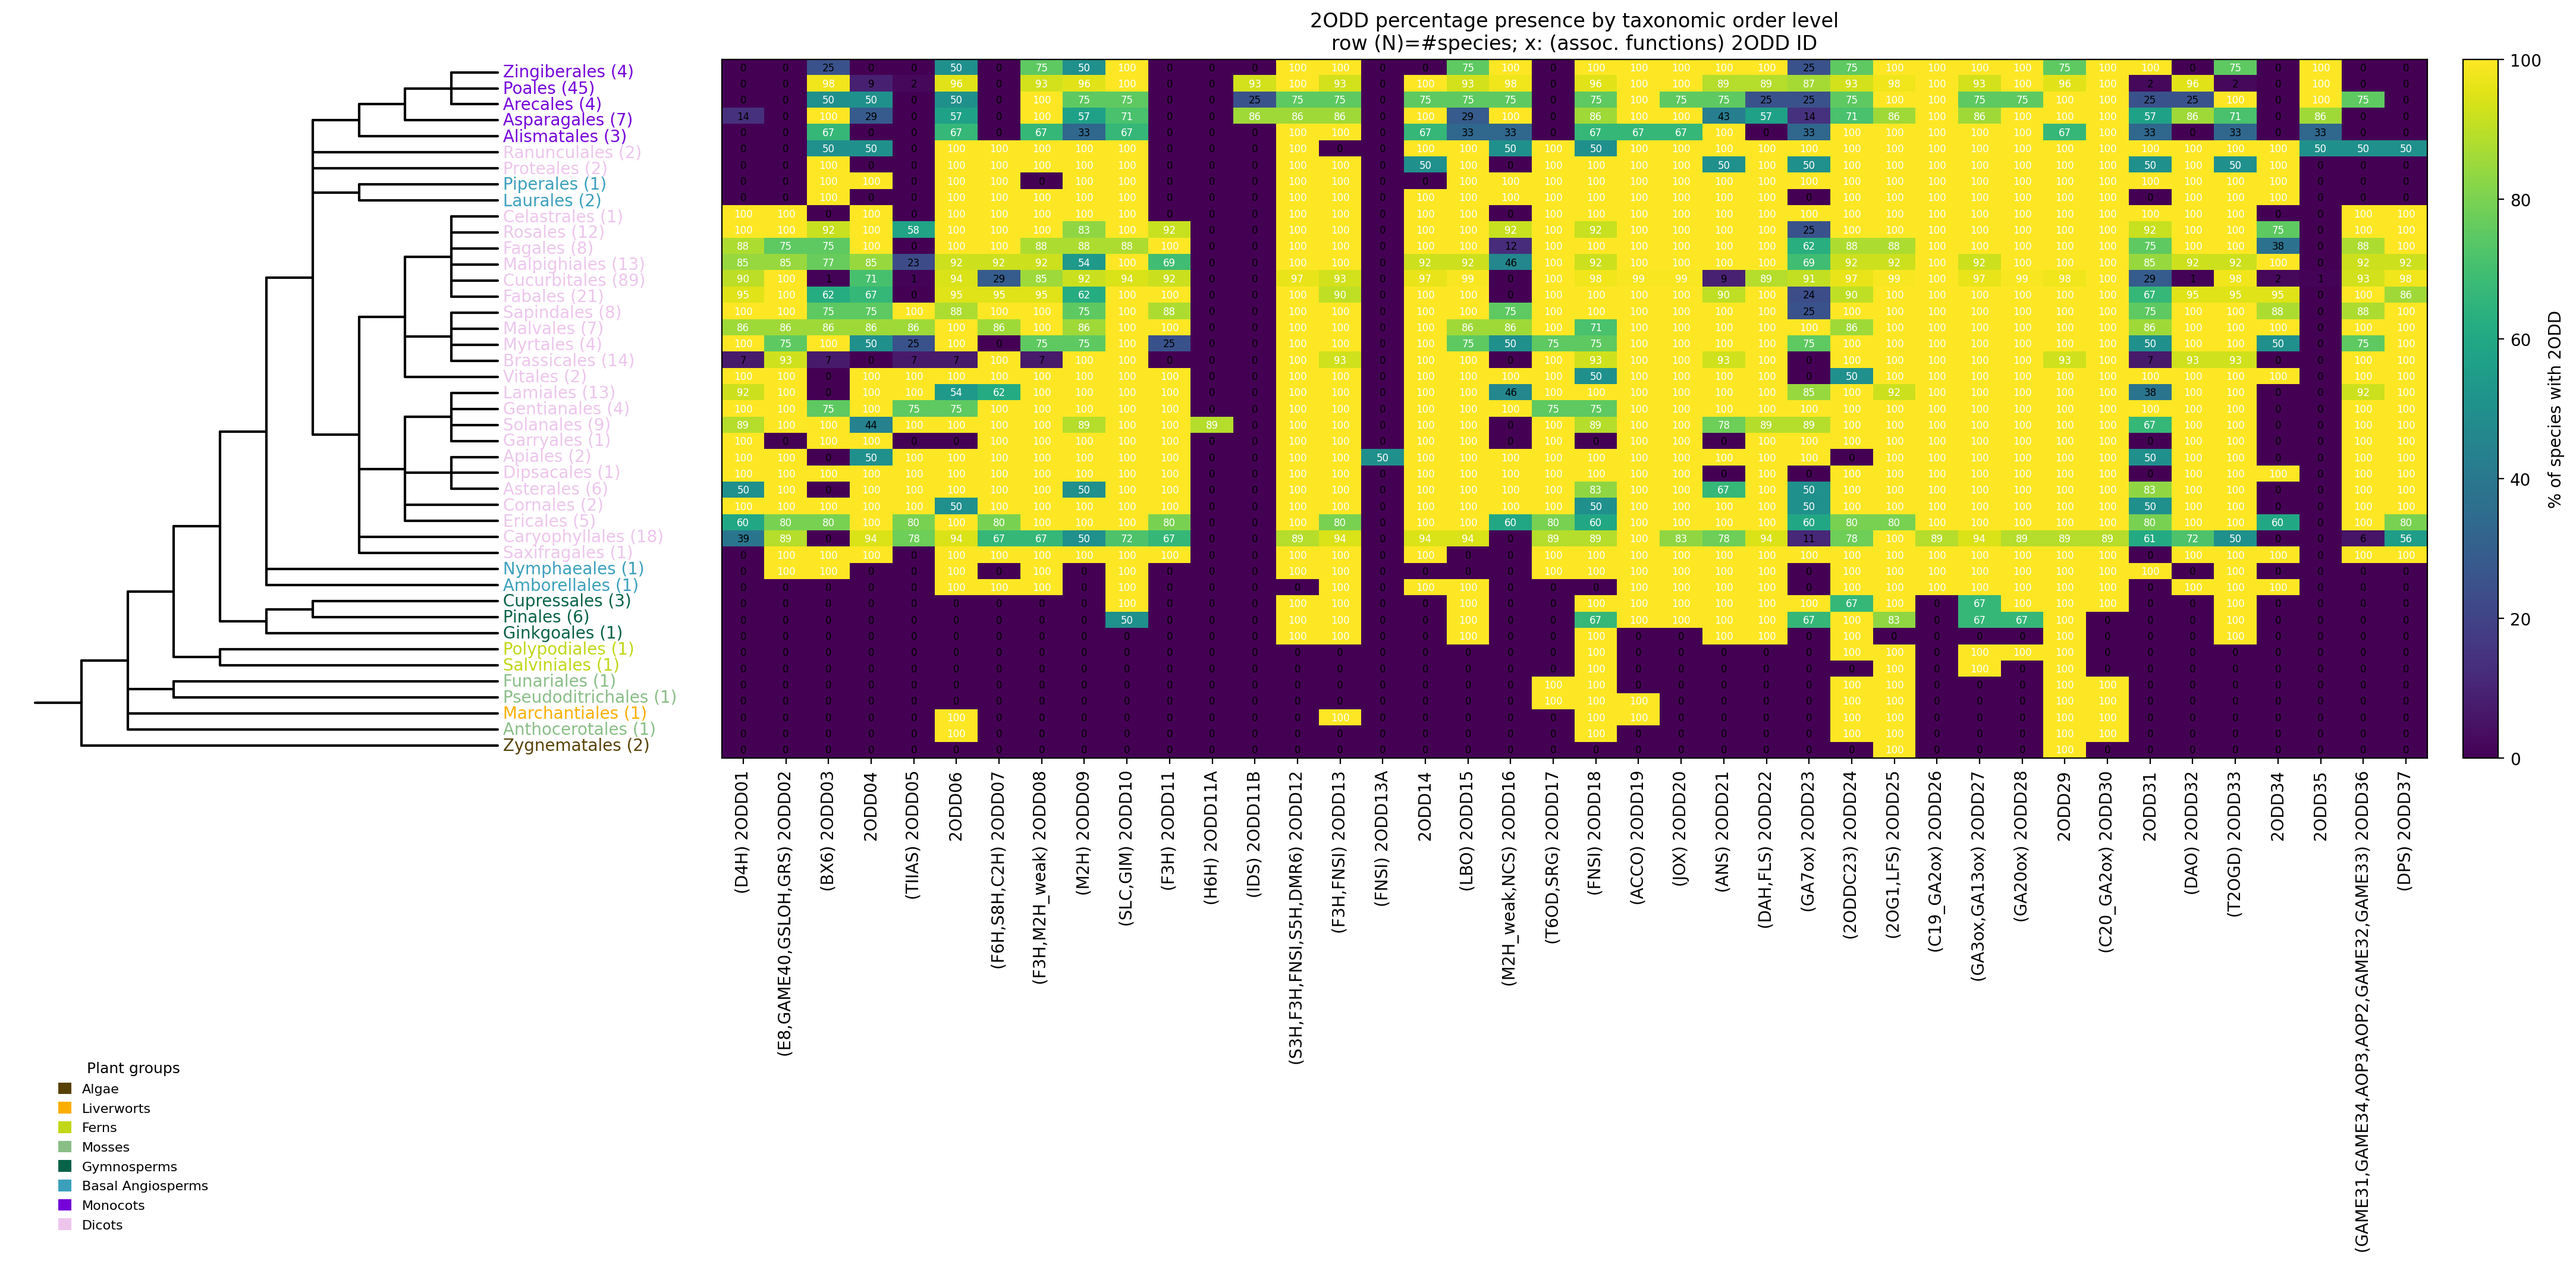
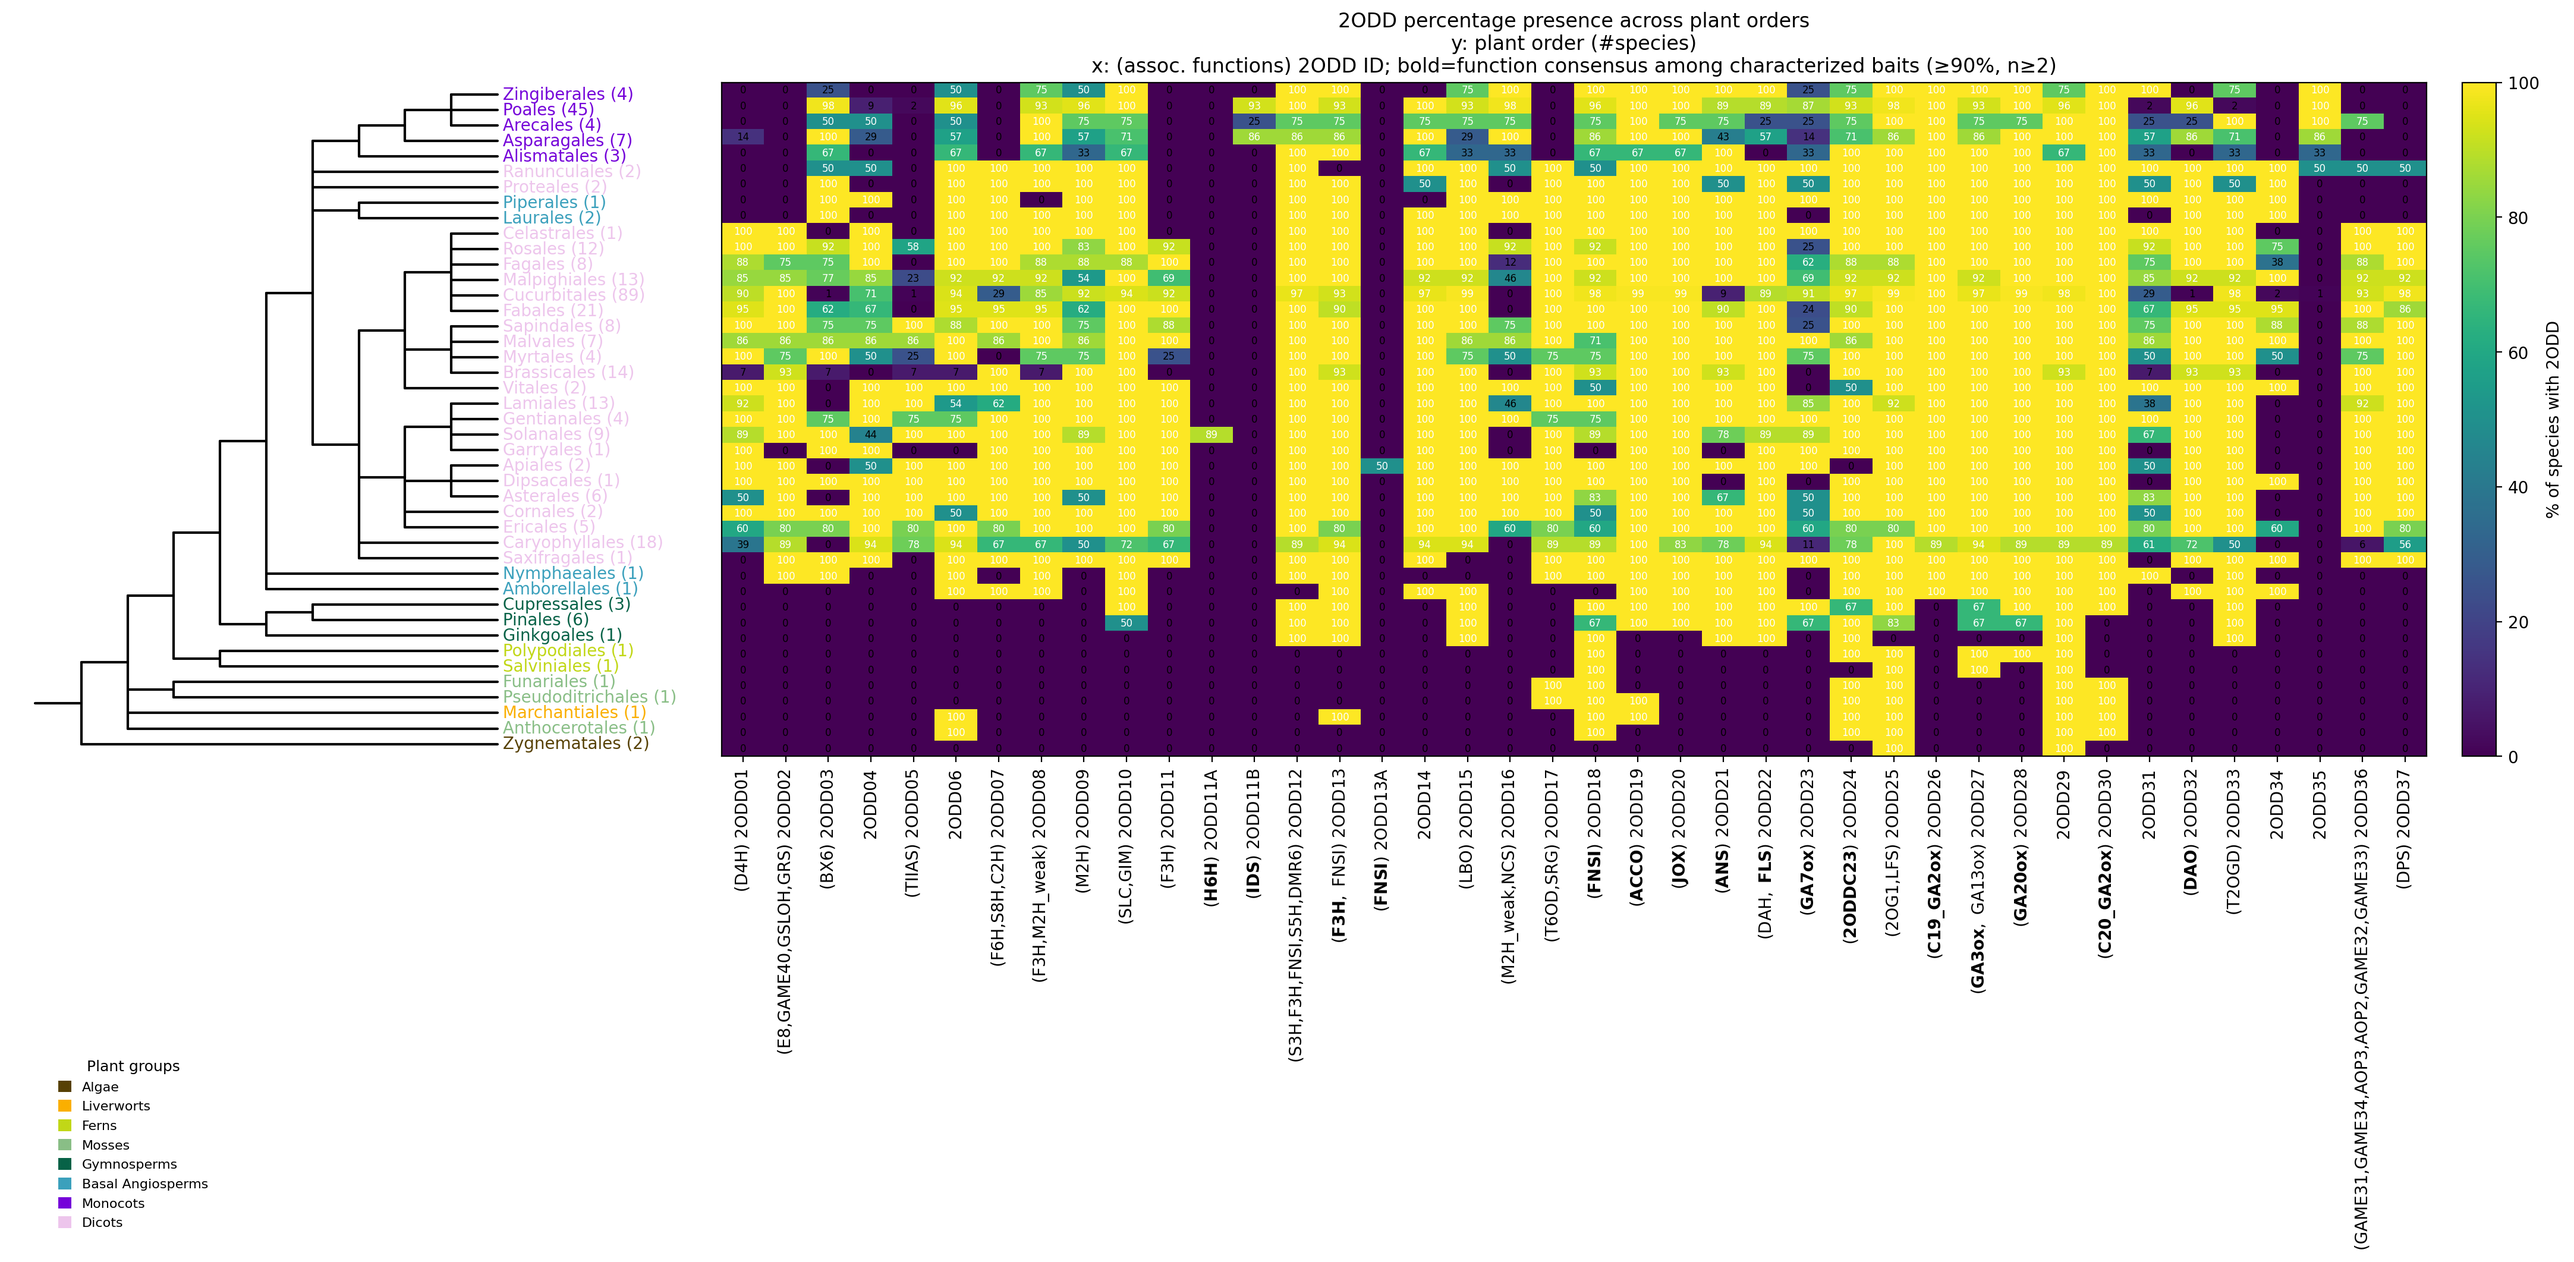
chore: make interpetation of the analysis step easier

diff --git a/src/two_odd_annotator/services/analyze.py b/src/two_odd_annotator/services/analyze.py
@@ -2,6 +2,7 @@ from __future__ import annotations
 
 from pathlib import Path
 from typing import Any
+from collections import Counter
 import json
 import re
 
@@ -96,6 +97,45 @@ def _two_odd_xtick_labels(
 ) -> list[str]:
     """Build display labels for 2ODD IDs with associated functions."""
 
+    def _mathtext_escape(s: str) -> str:
+        # Escape characters that are special in matplotlib mathtext.
+        # Underscore is common in function names (e.g. "M2H_weak").
+        return (
+            str(s)
+            .replace("\\", r"\backslash ")
+            .replace("{", r"\{")
+            .replace("}", r"\}")
+            .replace("_", r"\_")
+            .replace("^", r"\^{}")
+        )
+
+    def _consensus_function(info: dict[str, Any], threshold: float = 0.9, min_size: int = 2) -> str | None:
+        """Return a consensus function from characterized baits, or None.
+
+        Mirrors the logic in services/annotate.py:add_consensus_annotations.
+        """
+
+        ids = info.get("associated_characterized_baits") if isinstance(info, dict) else None
+        if not isinstance(ids, list) or not ids:
+            return None
+
+        functions: list[str] = []
+        for seq_id in ids:
+            if not isinstance(seq_id, str) or "__" not in seq_id:
+                continue
+            parts = seq_id.split("__")
+            if len(parts) > 1 and str(parts[1]).strip():
+                functions.append(str(parts[1]).strip())
+
+        if len(functions) < min_size:
+            return None
+
+        counts = Counter(functions)
+        most_common, count = counts.most_common(1)[0]
+        if (count / len(functions)) >= float(threshold):
+            return str(most_common)
+        return None
+
     if not major_char_info:
         return list(two_odd_ids)
 
@@ -108,8 +148,25 @@ def _two_odd_xtick_labels(
         else:
             funcs = []
 
+        consensus = _consensus_function(info)
+
         if funcs:
-            labels.append(f"({','.join(funcs)}) {tid}")
+            # If there's a strong consensus among characterized baits, bold ONLY
+            # that function within the (funcs) label.
+            if consensus and consensus in funcs:
+                funcs_math: list[str] = []
+                for f in funcs:
+                    f_esc = _mathtext_escape(f)
+                    if f == consensus:
+                        funcs_math.append(r"\mathbf{" + f_esc + "}")
+                    else:
+                        funcs_math.append(r"\mathrm{" + f_esc + "}")
+
+                tid_esc = _mathtext_escape(tid)
+                label = "$({})\\ \\mathrm{{{}}}$".format(",\\ ".join(funcs_math), tid_esc)
+                labels.append(label)
+            else:
+                labels.append(f"({','.join(funcs)}) {tid}")
         else:
             labels.append(tid)
     return labels
@@ -590,11 +647,21 @@ def run(output_dir: Path, config: dict[str, Any]) -> None:
             )
 
     if is_species_rank:
-        title = "2ODD presence by taxonomic species level\nx: (assoc. functions) 2ODD ID"
-    else:
         title = (
-            f"2ODD percentage presence by taxonomic {rank} level\n"
-            "row (N)=#species; x: (assoc. functions) 2ODD ID"
+            "2ODD presence across plant species\n"
+            f"y: plant species\n"
+            "x: (assoc. functions) 2ODD ID; bold=function consensus among characterized baits (≥90%, n≥2)"
+        )
+    else:
+        if rank == "family":
+            rank_display = "families"
+        elif rank == "order":
+            rank_display = "orders"
+        elif rank == "genus":
+            rank_display = "genera"
+        title = (
+            f"2ODD percentage presence across plant {rank_display}\n"
+            f"y: plant {rank} (#species)\nx: (assoc. functions) 2ODD ID; bold=function consensus among characterized baits (≥90%, n≥2)"
         )
     ax_heat.set_title(title)
 

diff --git a/tests/services/test_analyze_xtick_labels.py b/tests/services/test_analyze_xtick_labels.py
@@ -1,0 +1,54 @@
+import pytest
+
+from two_odd_annotator.services.analyze import _two_odd_xtick_labels
+
+
+def test_xtick_labels_bold_consensus_function_mathtext():
+    # 10/11 are F3H => consensus at threshold 0.9
+    major_char_info = {
+        "2ODD13": {
+            "associated_functions": ["F3H", "FNSI"],
+            "associated_characterized_baits": [
+                *[f"X{i}__F3H__p__1" for i in range(10)],
+                "Y__FNSI__p__1",
+            ],
+        }
+    }
+
+    label = _two_odd_xtick_labels(["2ODD13"], major_char_info)[0]
+    assert label.startswith("$(")
+    assert "\\mathbf{F3H}" in label
+    assert "\\mathrm{FNSI}" in label
+    assert label.endswith("\\mathrm{2ODD13}$")
+
+
+def test_xtick_labels_no_consensus_falls_back_to_plain_text():
+    # 1/2 are F3H => no consensus with min_size=2 and threshold=0.9
+    major_char_info = {
+        "2ODD13": {
+            "associated_functions": ["F3H", "FNSI"],
+            "associated_characterized_baits": [
+                "A__F3H__p__1",
+                "B__FNSI__p__1",
+            ],
+        }
+    }
+
+    label = _two_odd_xtick_labels(["2ODD13"], major_char_info)[0]
+    assert label == "(F3H,FNSI) 2ODD13"
+
+
+def test_xtick_labels_escape_underscores_in_mathtext():
+    major_char_info = {
+        "2ODD10": {
+            "associated_functions": ["F3H", "M2H_weak"],
+            "associated_characterized_baits": [
+                "A__M2H_weak__p__1",
+                "B__M2H_weak__p__1",
+            ],
+        }
+    }
+
+    label = _two_odd_xtick_labels(["2ODD10"], major_char_info)[0]
+    assert "\\mathbf{M2H\\_weak}" in label
+

diff --git a/README.md b/README.md
@@ -504,9 +504,24 @@ Here is an example output of applying the `two_odd_annotator` on over 300 plant 
 <img src="images/presence_heatmap_order.png" alt="2ODD percentage presence by taxonomic order level" width="900"/>
 </p>
 
+#### How to interpret the heatmap
+
+The plot combines a taxonomy tree (left) with a presence/percentage heatmap (right):
+
+- **Rows (y-axis)** are taxa at the chosen rank (`order`, `family`, `genus`, or `species`). If the order is at higher ranks than on species level, then the number in the parenthesis indicates how many species datasets were included for this run. Label colors (and the legend) indicate the corresponding major plant groups (Algae, Ferns, Monocots, Dicots, etc.).
+- **Columns (x-axis)** are **major 2ODD IDs** (minor IDs are excluded from the matrix/heatmap).
+- **x-tick labels** are formatted as `(<associated functions>) <2ODD ID>` using the curated characterization file [data/2ODDs/major_2ODD_char_info.json](data/2ODDs/major_2ODD_char_info.json).
+  - If a 2ODD ID has a strong function consensus among its characterized baits (≥90% agreement with at least 2 baits), **only that consensus function is shown in bold**.
+  - If there is no clear consensus (or no characterized baits), functions are shown without bolding.
+- **Cell values / colors**
+  - At rank = `species`, cells are binary: **1** = that species has at least one candidate assigned to the 2ODD ID; **0** = not observed.
+  - At higher ranks, cells are percentages: the **% of species within that row taxon** with at least one candidate assigned to the 2ODD ID.
+
+In other words, the heatmap answers “how common is each 2ODD clade across taxa?”, while the bolded x-label function (when present) indicates the *expected* function of that 2ODD ID based on characterized bait sequences.
 
 
-This visualization allows us to identify patterns of conservation and diversification of 2ODD functional clades across plant taxa. For example, some 2ODD IDs might be widely conserved across all orders, while others might show a more patchy distribution, potentially indicating lineage-specific expansions or losses.
+
+This visualization allows identifying patterns of conservation and diversification of 2ODD functional clades across plant taxa. For example, some 2ODD IDs might be widely conserved across all orders, while others might show a more patchy distribution, potentially indicating lineage-specific expansions or losses.
 
 
 It is important to note that for the analysis, not only the input plant species are considered, but also the species represented in the bait sequence collection. This is why the presence matrix and corresponding tree and heatmap can contain more species than the number of input FASTA files. 
